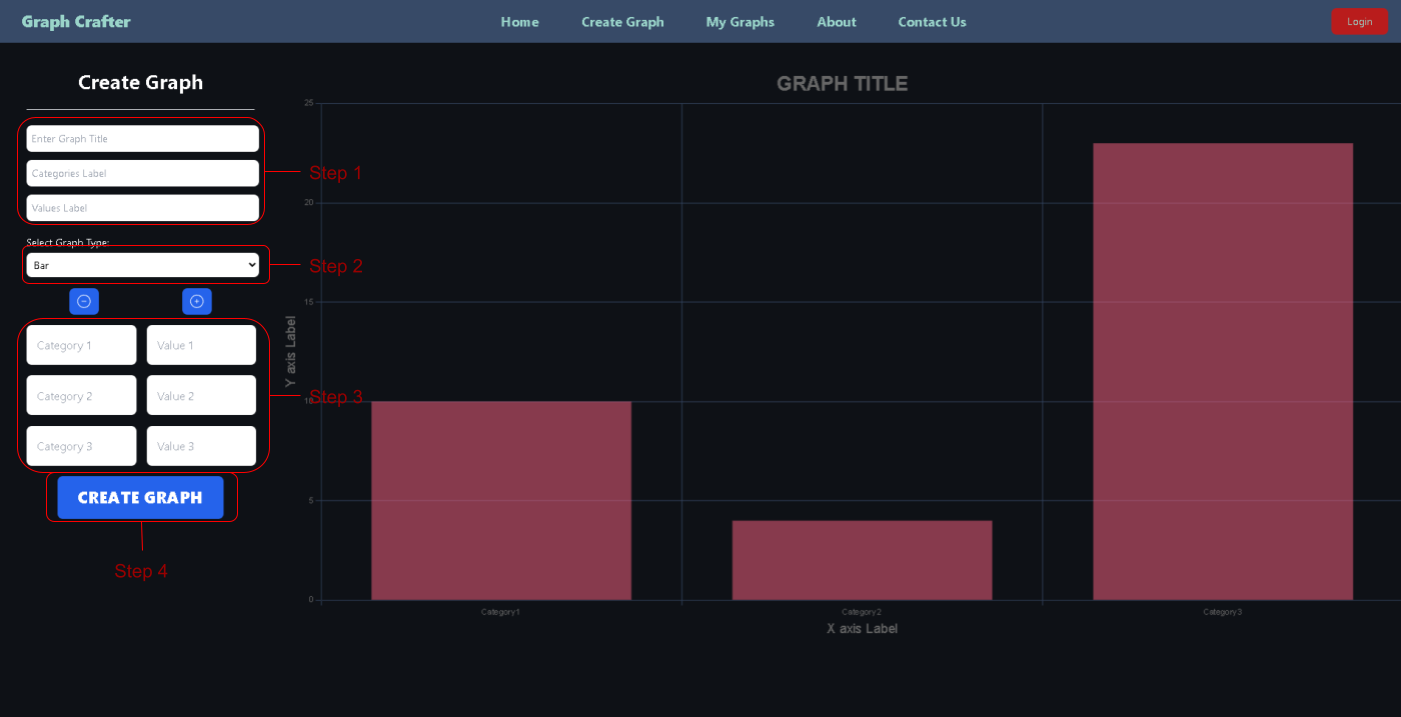
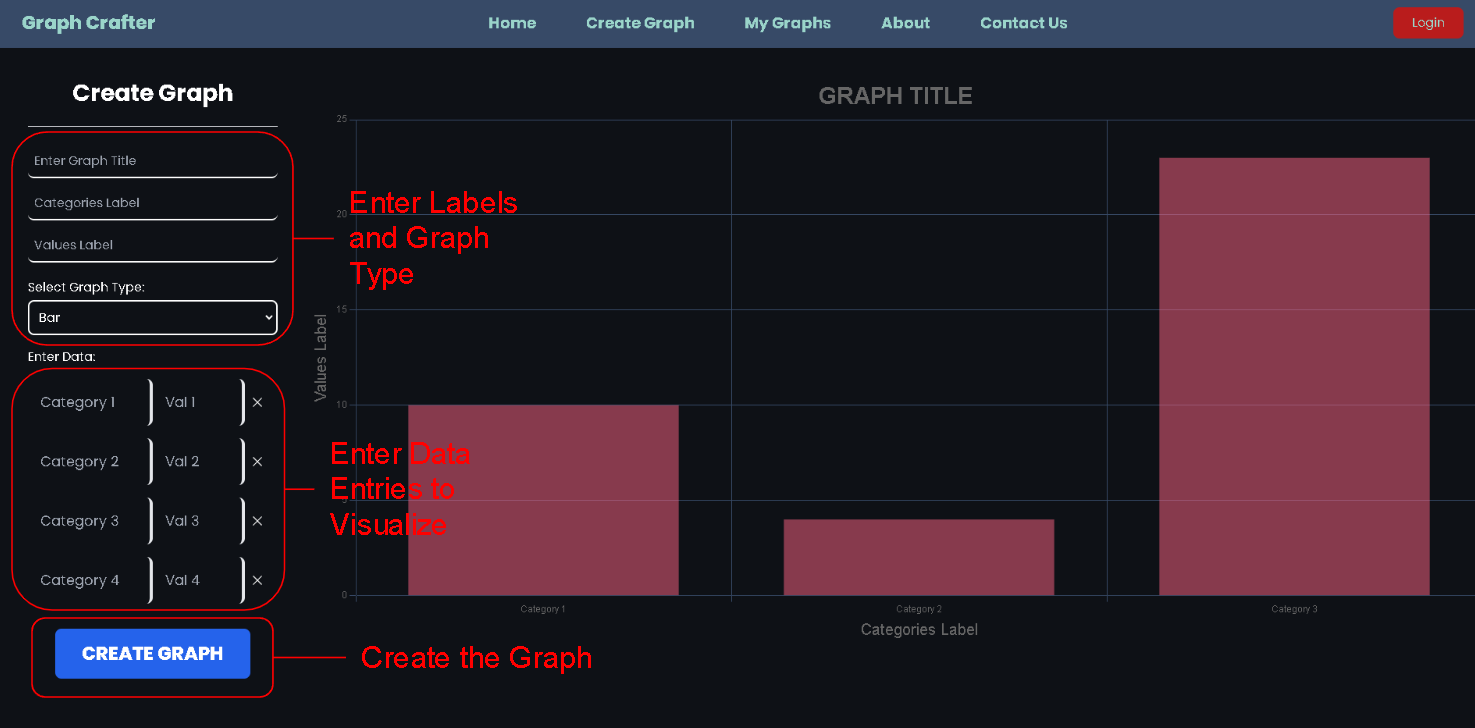
fixed graph input and images

diff --git a/graph-builder-frontend/src/components/GraphOptions.js b/graph-builder-frontend/src/components/GraphOptions.js
@@ -37,7 +37,7 @@ const GraphOptions = ({ setCurrentGraph }) => {
     }
   };
 
-  const [categoryAmt, setCategoryAmt] = useState(4);
+  const [categoryAmt, setCategoryAmt] = useState(3);
 
   const createCategories = () => {
     let categoryArr = [];
@@ -69,8 +69,8 @@ const GraphOptions = ({ setCurrentGraph }) => {
           {/* dynamic number input */}
           <input
             type="number"
-            placeholder={`Value ${i + 1}`}
-            className="p-4 rounded-lg w-[37%] text-lg border-r-4 bg-transparent focus:outline-none"
+            placeholder={`Val ${i + 1}`}
+            className="p-4 rounded-lg w-[37%] text-lg border-r-4 bg-transparent focus:outline-none no-spinner"
             onChange={(e) => {
               let newValues = [...newGraph.categoryValues];
 
@@ -114,7 +114,7 @@ const GraphOptions = ({ setCurrentGraph }) => {
   };
 
   return (
-    <div className="p-10 w-4/5 2xl:w-1/5 min-w-[400px] max-w-[600px]">
+    <div className="p-10 w-4/5 2xl:w-1/5 min-w-[400px] max-w-[600px] h-full">
       {/* header */}
       <div className=" flex items-center justify-center align-middle text-center">
         <h1 className="text-white text-3xl font-bold hidden 2xl:flex">
@@ -175,13 +175,13 @@ const GraphOptions = ({ setCurrentGraph }) => {
       </div>
       {/* dynamic entry generation */}
       <h4 className="text-white my-4">Enter Data:</h4>
-      <div className="flex flex-col overflow-y-auto h-[450px]">{createCategories()}</div>
+      <div className="flex flex-col overflow-y-auto 2xl:max-h-[40%] 2xl:h-auto  h-[450px]">{createCategories()}</div>
       {/* create graph button */}
       <div className="flex items-center justify-center">
         {categoryAmt > 0 && (
           <button
             onClick={() => postGraph(newGraph)}
-            className="bg-blue-600 w-[250px] rounded-lg p-4 text-2xl font-extrabold text-white  hover:bg-blue-500 duration-300"
+            className="bg-blue-600 w-[250px] mt-4 rounded-lg p-4 text-2xl font-extrabold text-white  hover:bg-blue-500 duration-300"
           >
             CREATE GRAPH
           </button>

diff --git a/graph-builder-frontend/src/index.css b/graph-builder-frontend/src/index.css
@@ -38,3 +38,15 @@ body {
 .overflow-y-auto::-webkit-scrollbar-thumb:hover {
   background: #555;
 }
+
+
+/* Hide the spinners for number input */
+.no-spinner::-webkit-outer-spin-button,
+.no-spinner::-webkit-inner-spin-button {
+  -webkit-appearance: none;
+  margin: 0;
+}
+
+.no-spinner {
+  -moz-appearance: textfield; /* Firefox */
+}
